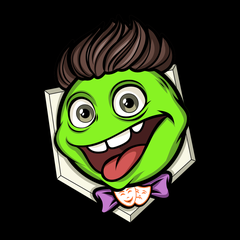
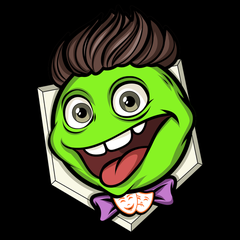
Iconos nuevos también en Android y TV: pelota sobre negro en Recta, personaje más grande en El Home, círculo más grande en la variante Android de Marrero Bernal [skip ci]
Claude-Session: https://claude.ai/code/session_01JHYLkKesDYT39mWGZrrMpd

Changed region(s): [[0.1458, 0.0292, 0.8458, 0.9625]]

diff --git a/android/recta-tv/tools/generar_imagenes.py b/android/recta-tv/tools/generar_imagenes.py
@@ -5,6 +5,7 @@ import os
 R = "android/app/src/main/res"
 LOGO = Image.open("../../recta/icons/icon-512.png").convert("RGBA")
 MASK = Image.open("../../recta/icons/maskable-512.png").convert("RGBA")
+PELOTA = LOGO.crop((10, 10, 502, 502))  # el icono nuevo es la pelota (96 %) sobre negro: para banner y arranque se usa solo la pelota
 BG = (10, 20, 36, 255); LIME = (255, 75, 85, 255)
 F = "/usr/share/fonts/truetype/google-fonts/Poppins-Bold.ttf"
 def font(s):
@@ -21,7 +22,7 @@ for d, s in D.items():
     MASK.resize((fg, fg), Image.LANCZOS).save(f"{p}/ic_launcher_foreground.png")
 def banner(w, h, path):
     im = Image.new("RGBA", (w, h), BG); dr = ImageDraw.Draw(im)
-    pad = int(h * .10); lg = LOGO.resize((int(h * .80), int(h * .80)), Image.LANCZOS)
+    pad = int(h * .10); lg = PELOTA.resize((int(h * .80), int(h * .80)), Image.LANCZOS)
     cm = Image.new("L", lg.size, 0); ImageDraw.Draw(cm).ellipse((0, 0, lg.width - 1, lg.height - 1), fill=255)
     im.paste(lg, (pad, (h - lg.height) // 2), cm)
     x = pad * 2 + lg.width; room = w - x - pad
@@ -42,7 +43,7 @@ for root, _, files in os.walk(R):
         if fn == "splash.png":
             p = os.path.join(root, fn); w, h = Image.open(p).size
             im = Image.new("RGBA", (w, h), BG); s = int(min(w, h) * .35)
-            lg = LOGO.resize((s, s), Image.LANCZOS); cm = Image.new("L", (s * 4, s * 4), 0)
+            lg = PELOTA.resize((s, s), Image.LANCZOS); cm = Image.new("L", (s * 4, s * 4), 0)
             ImageDraw.Draw(cm).ellipse((6, 6, s * 4 - 7, s * 4 - 7), fill=255); cm = cm.resize((s, s), Image.LANCZOS)
             im.paste(lg, ((w - s) // 2, (h - s) // 2), cm)  # solo la pelota redonda, sin el cuadrado blanco
             im.convert("RGB").save(p)
